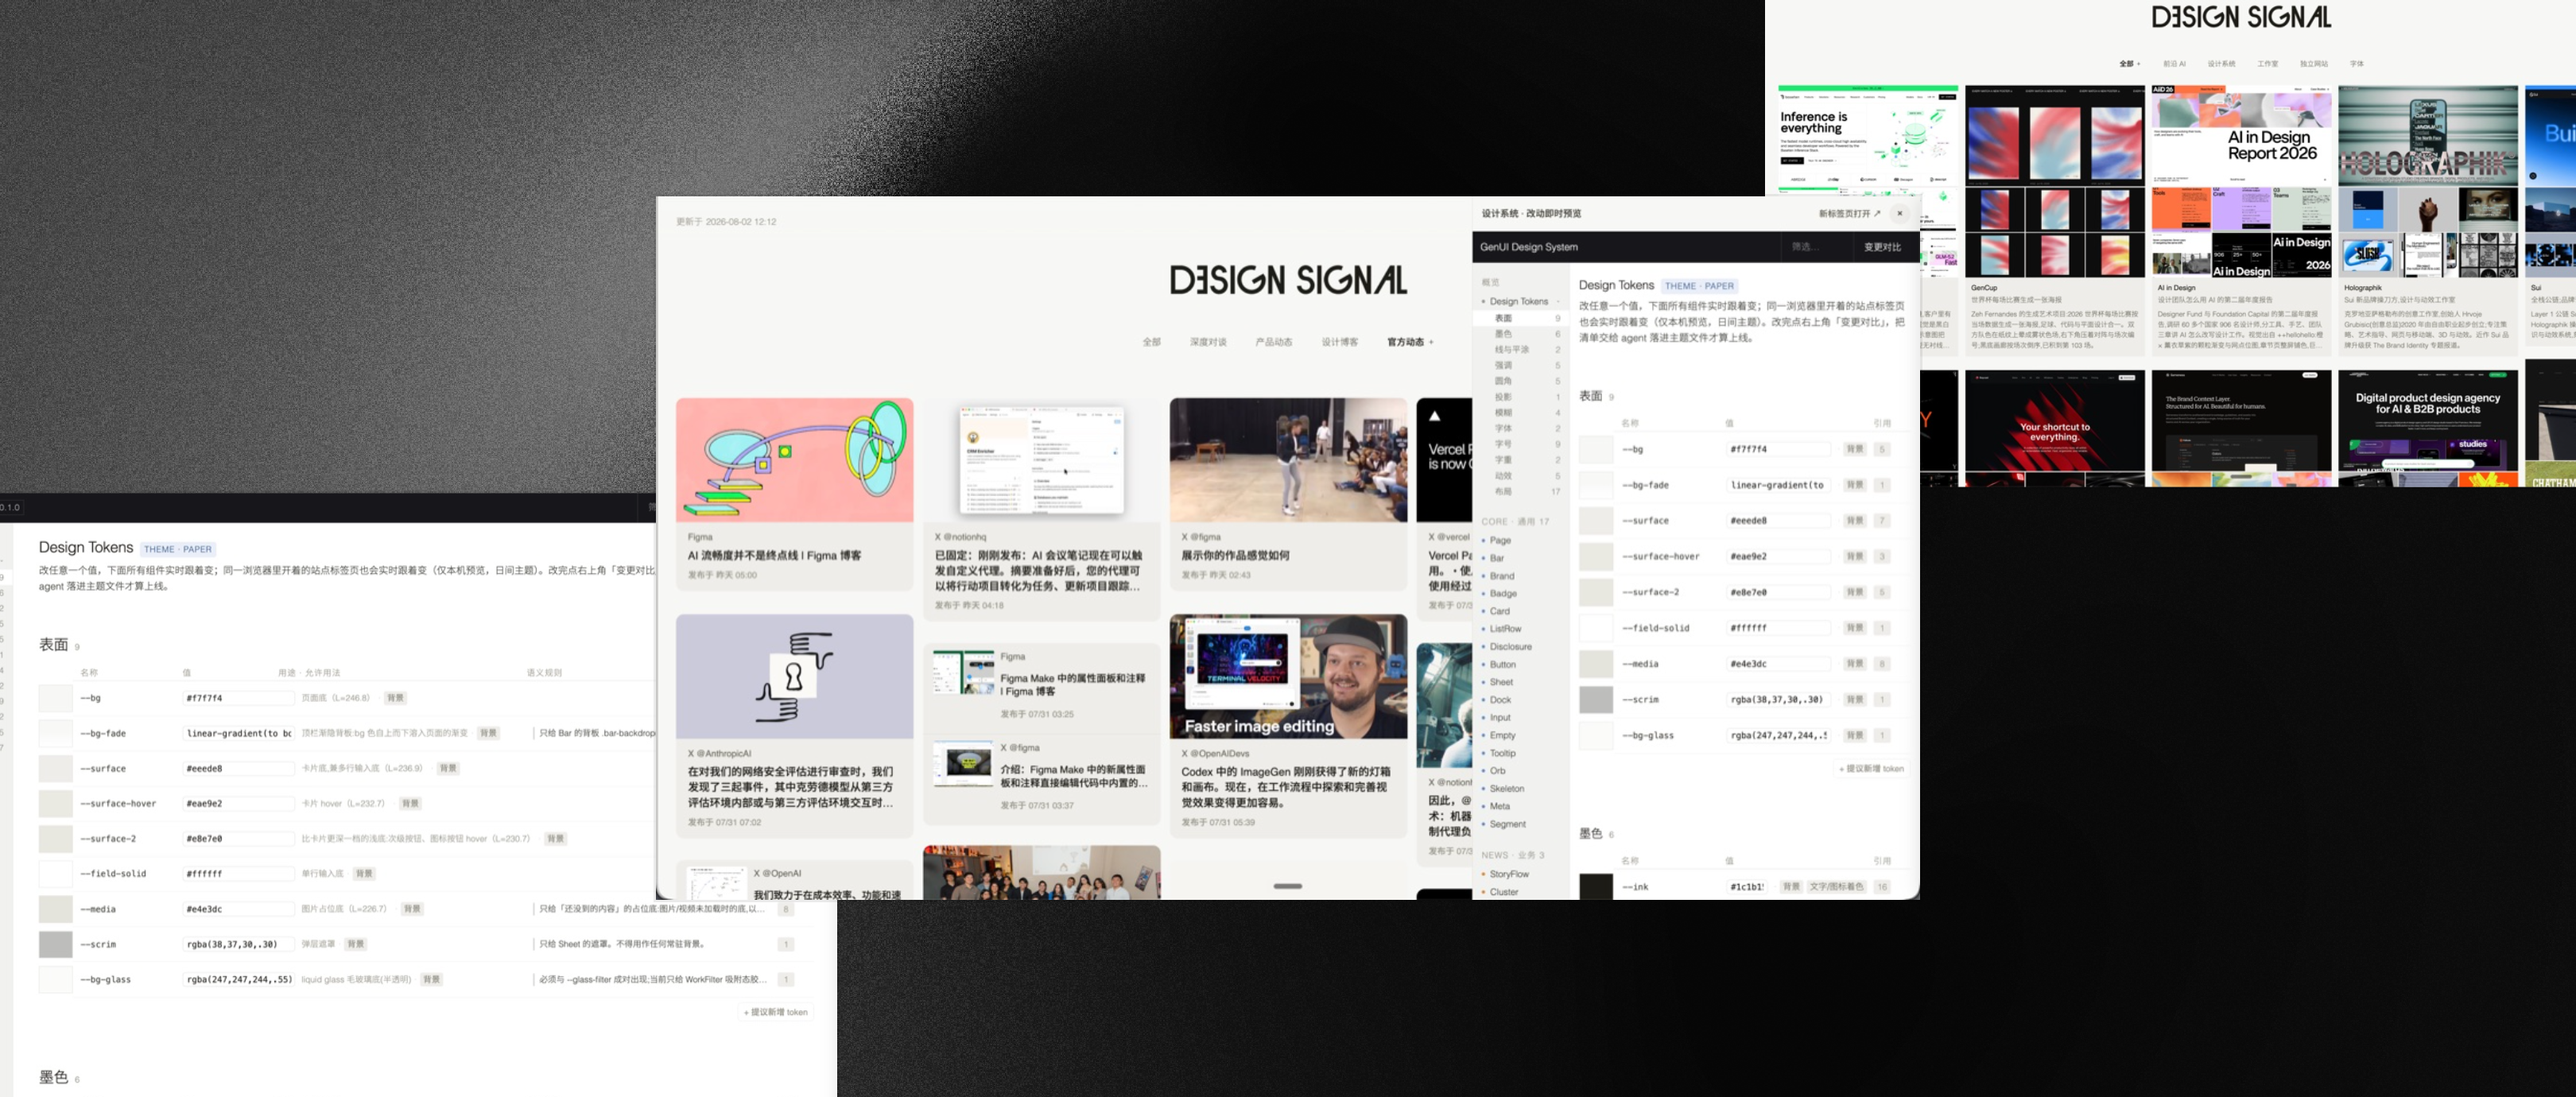
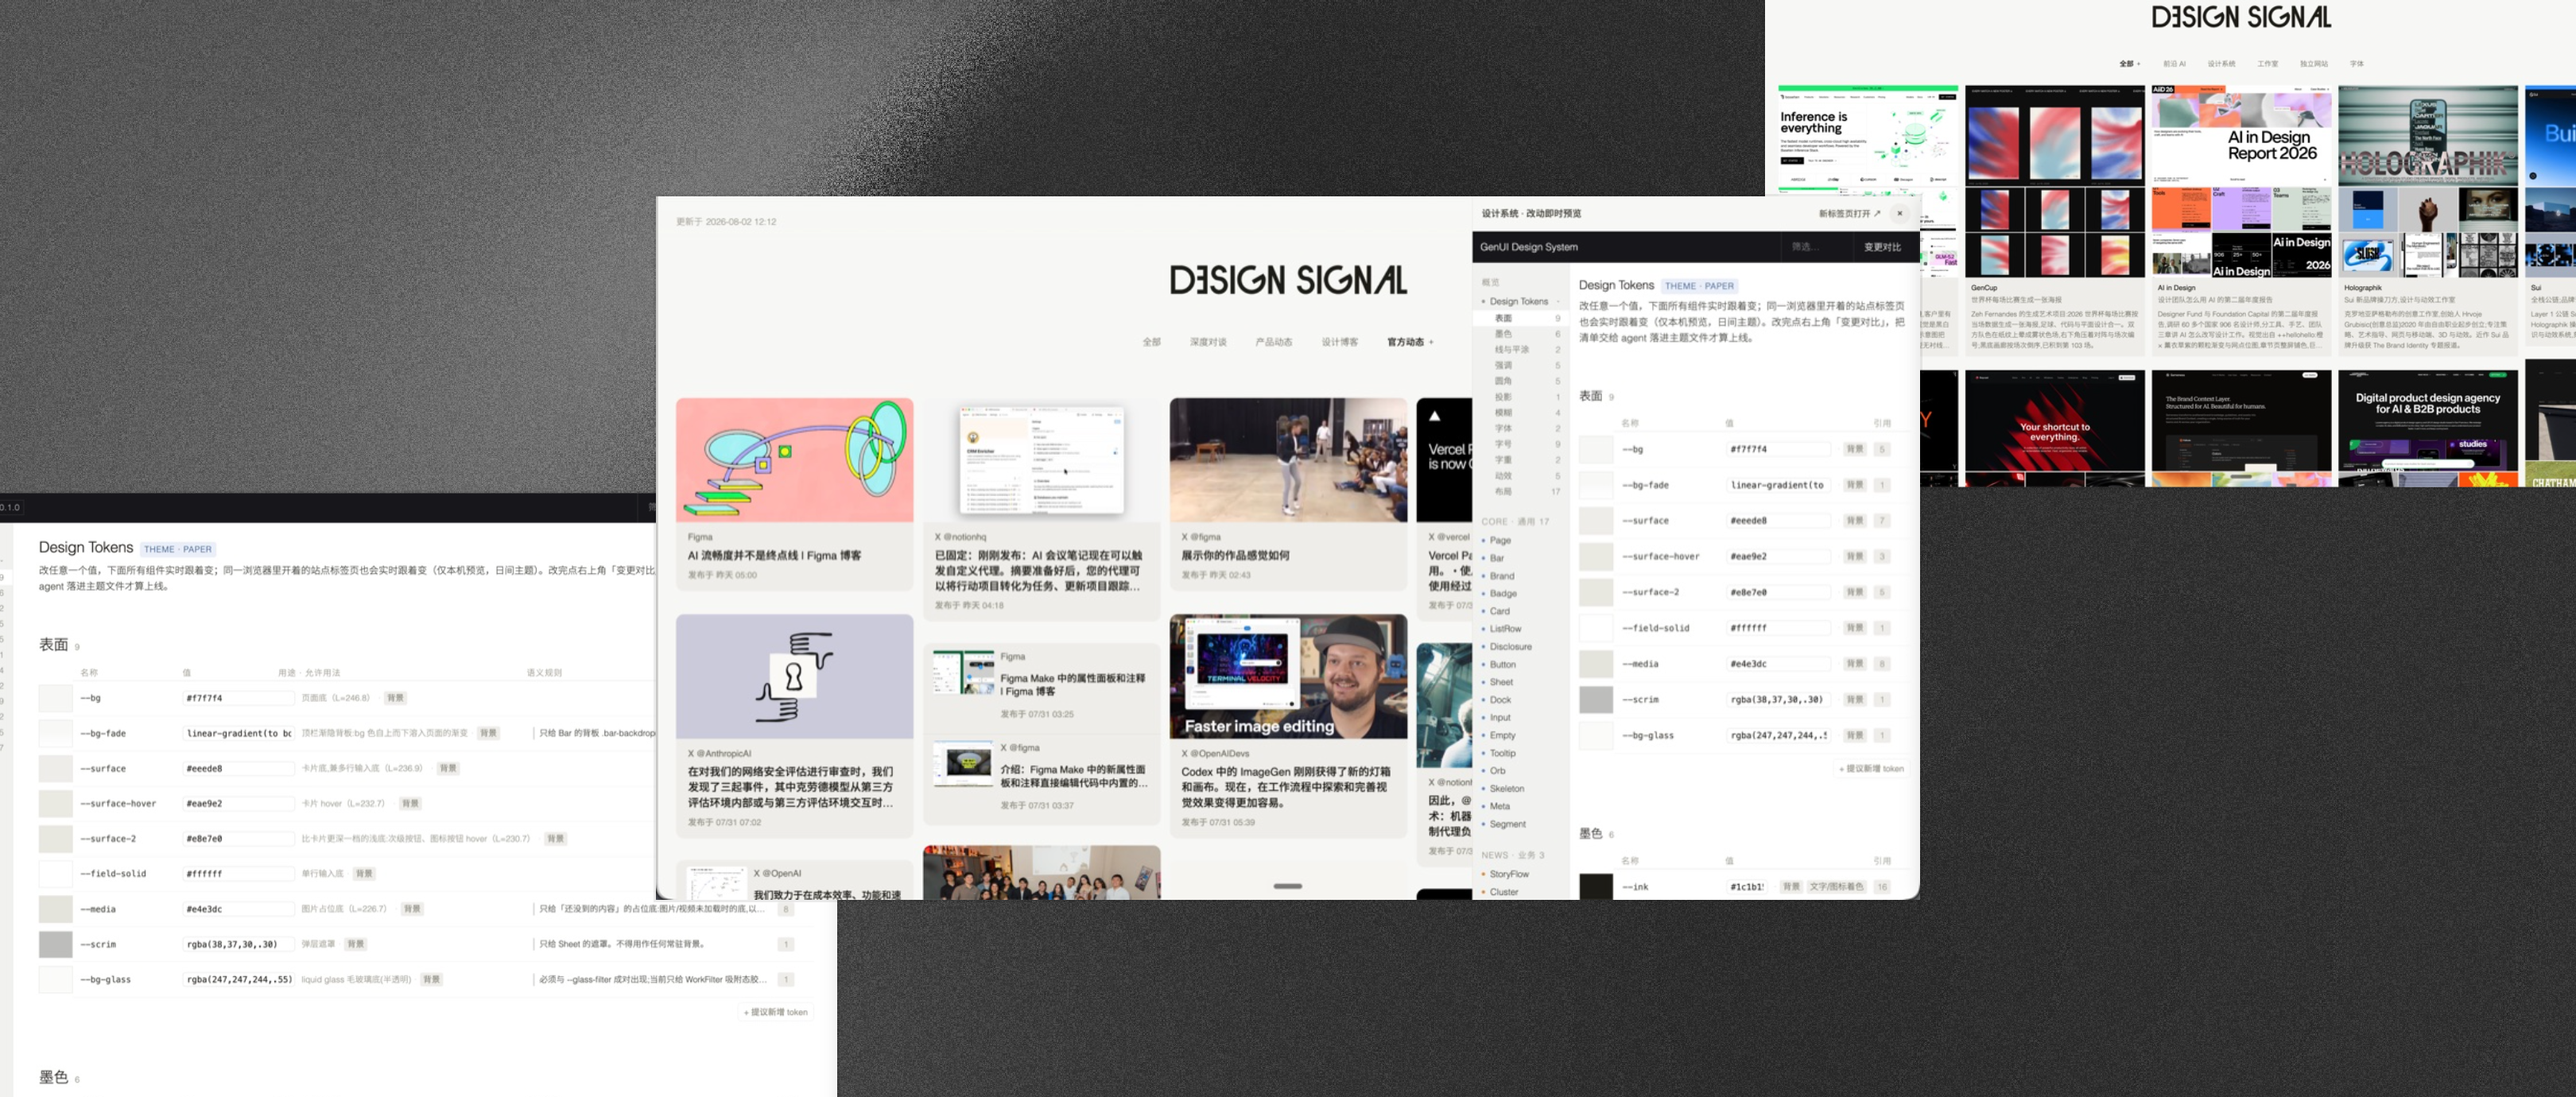
GenUI 封面：绸带黑域抬成深灰（#272727-#343434），不再纯黑

Changed region(s): [[0.3117, 0.4362, 1.0, 1.0], [0.3429, 0.0, 0.6858, 0.187]]

diff --git a/docs/writing/assets/genui-no-style-to-write/cover3.html b/docs/writing/assets/genui-no-style-to-write/cover3.html
@@ -4,7 +4,7 @@
 <!DOCTYPE html>
 <html><head><meta charset="utf-8"><meta name="viewport" content="width=device-width,initial-scale=1"><style>
 *{margin:0;padding:0;box-sizing:border-box;}
-.wrap{position:fixed;inset:0;overflow:hidden;background:#030303;}
+.wrap{position:fixed;inset:0;overflow:hidden;background:#272727;}
 #sh{position:absolute;inset:0;width:100%;height:100%;display:block;}
 .stage{position:absolute;left:50%;top:50%;width:1080px;height:460px;transform:translate(-50%,-50%);transform-origin:center center;}
 
@@ -75,7 +75,7 @@ function makeMesh(cv,n){
 }
 // ===== 贴缝颗粒绸带（实验八）：黑蓝 PAL，颗粒四参 = 实验八定稿 =====
 (function(){
-  var COLORS=['#030303','#0e0e0e','#050505','#7a7a7a','#080808'];   // 黑白 PAL（gen.mjs seamColors 无彩版：4 近黑灰域 + 1 银灰主槽）
+  var COLORS=['#272727','#343434','#2b2b2b','#7a7a7a','#2e2e2e'];   // 黑白 PAL 深灰版（用户定：不要纯黑）：4 深灰域（L 0.020-0.035 微差起伏）+ 1 银灰主槽
   var BASE=0.09,K=1.1,MID=0.6,SIZE=1.2,GSEED=0.52;
   var m=makeMesh(cv,5);
   m.setColors(COLORS);
